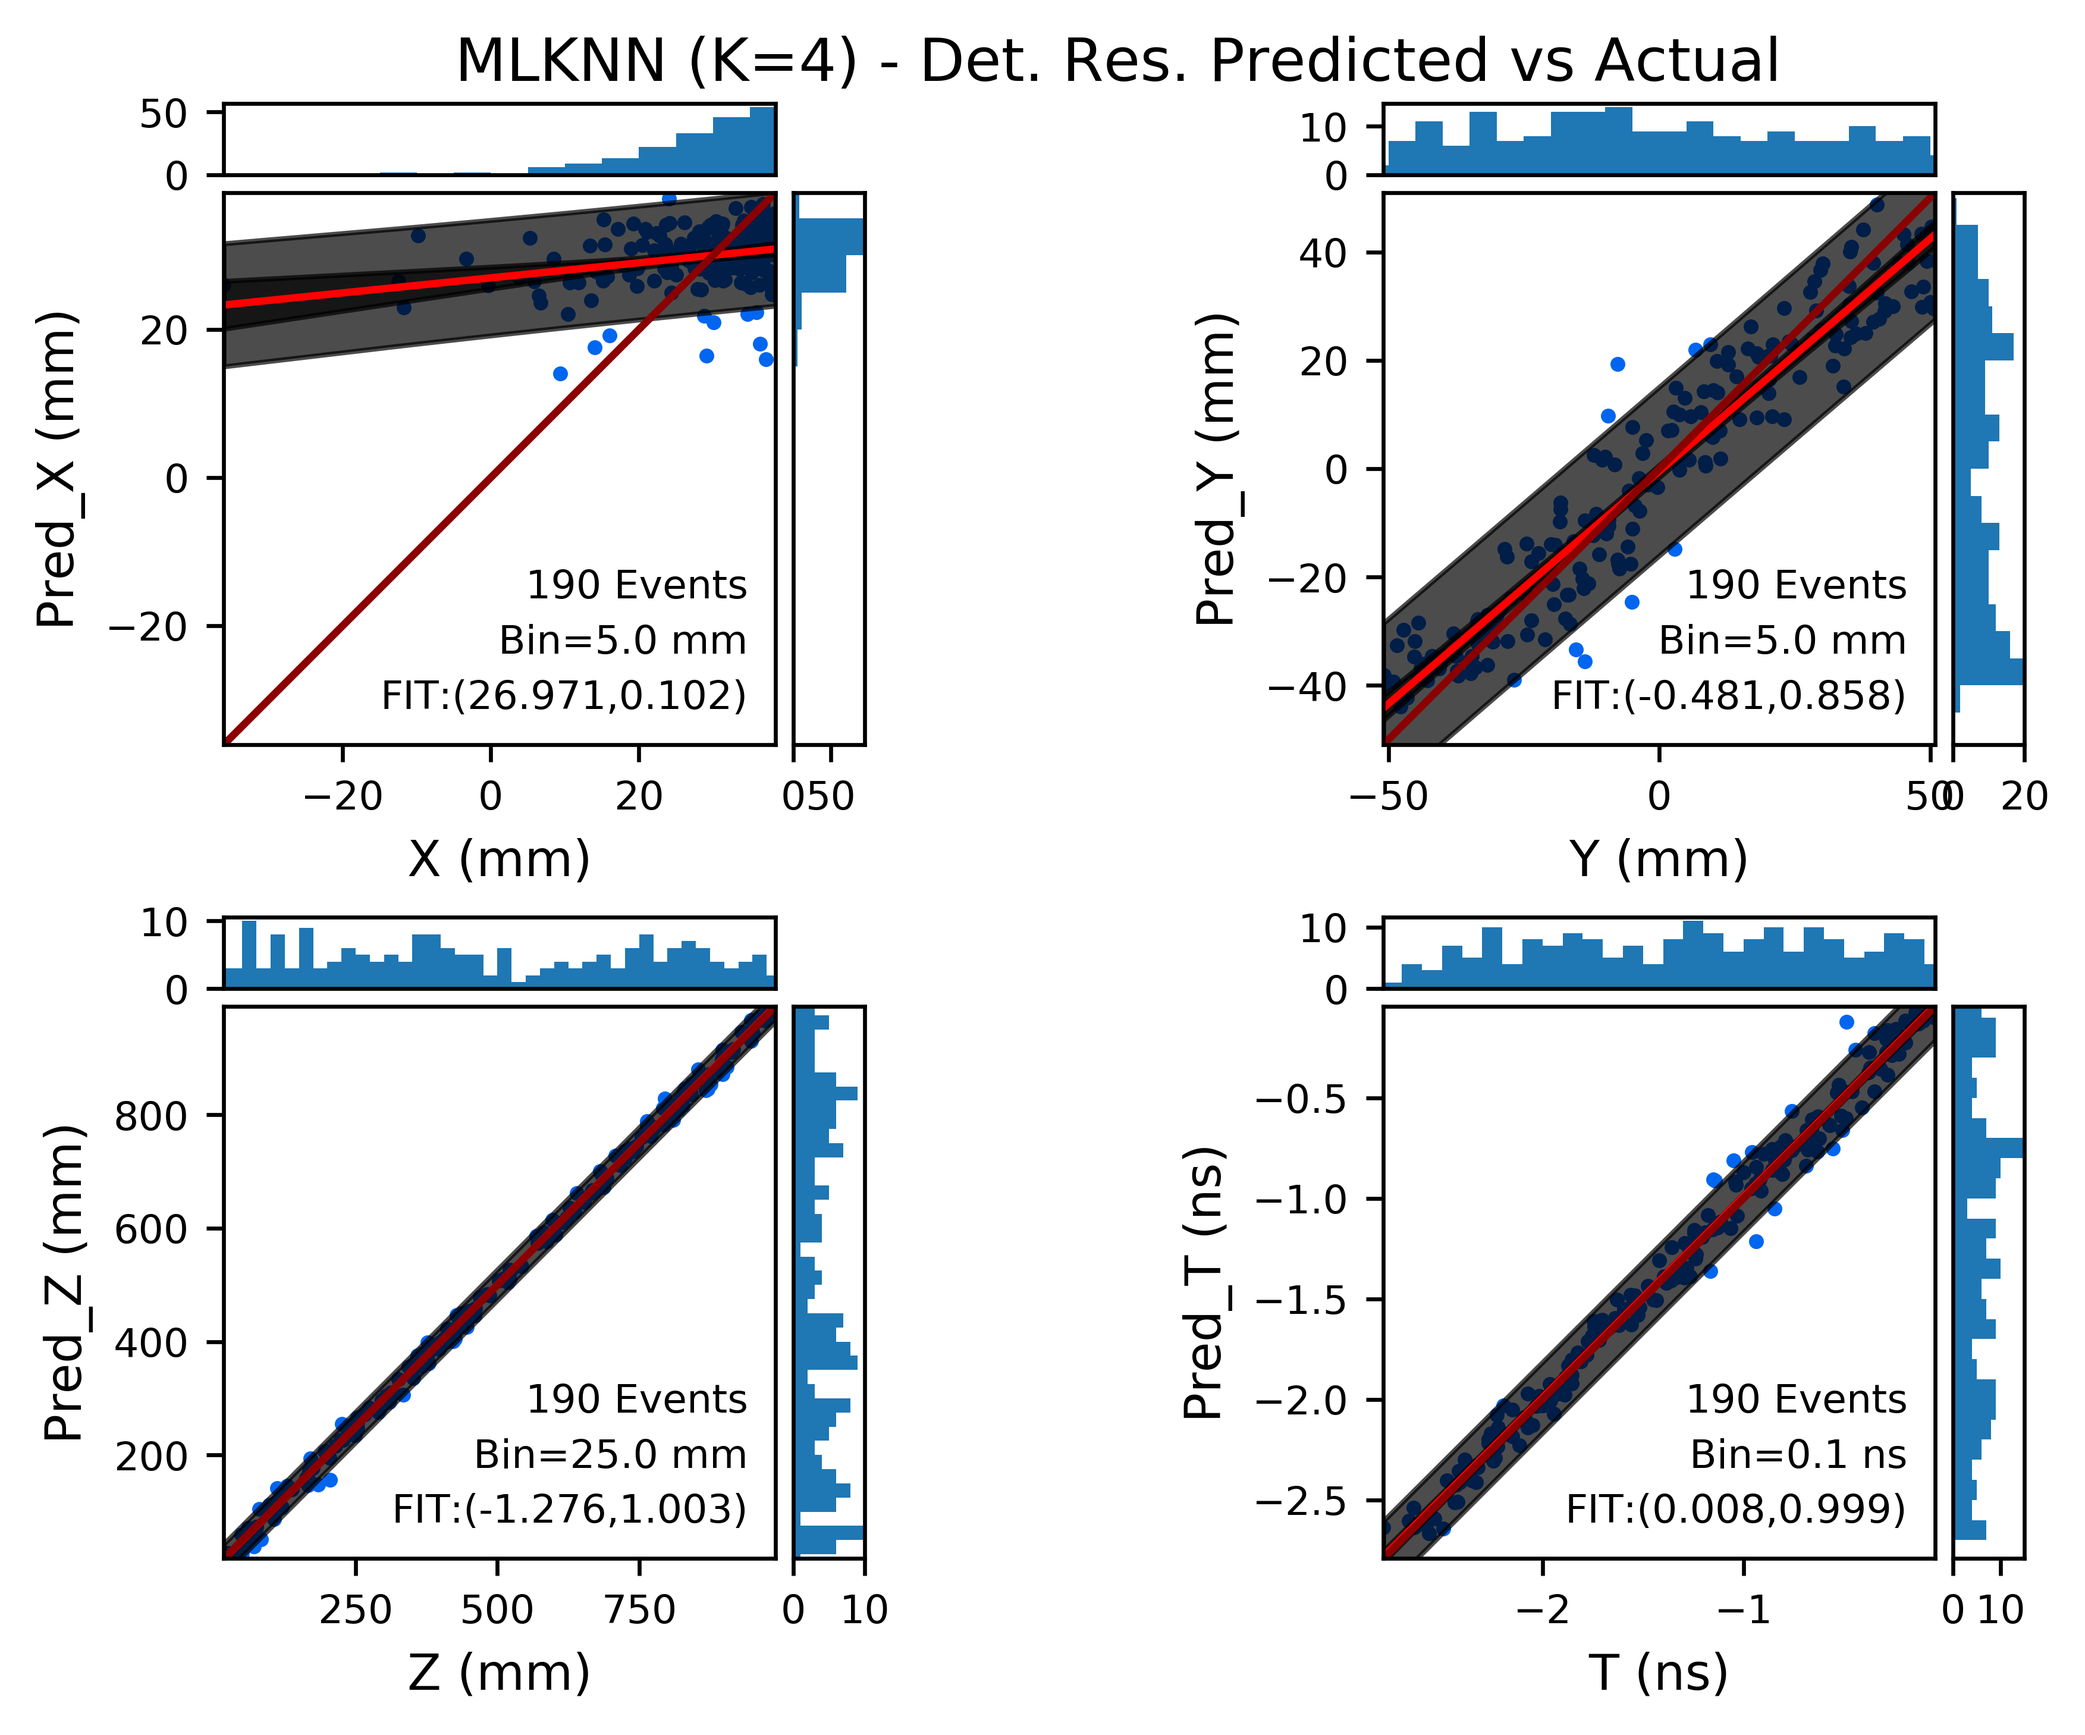
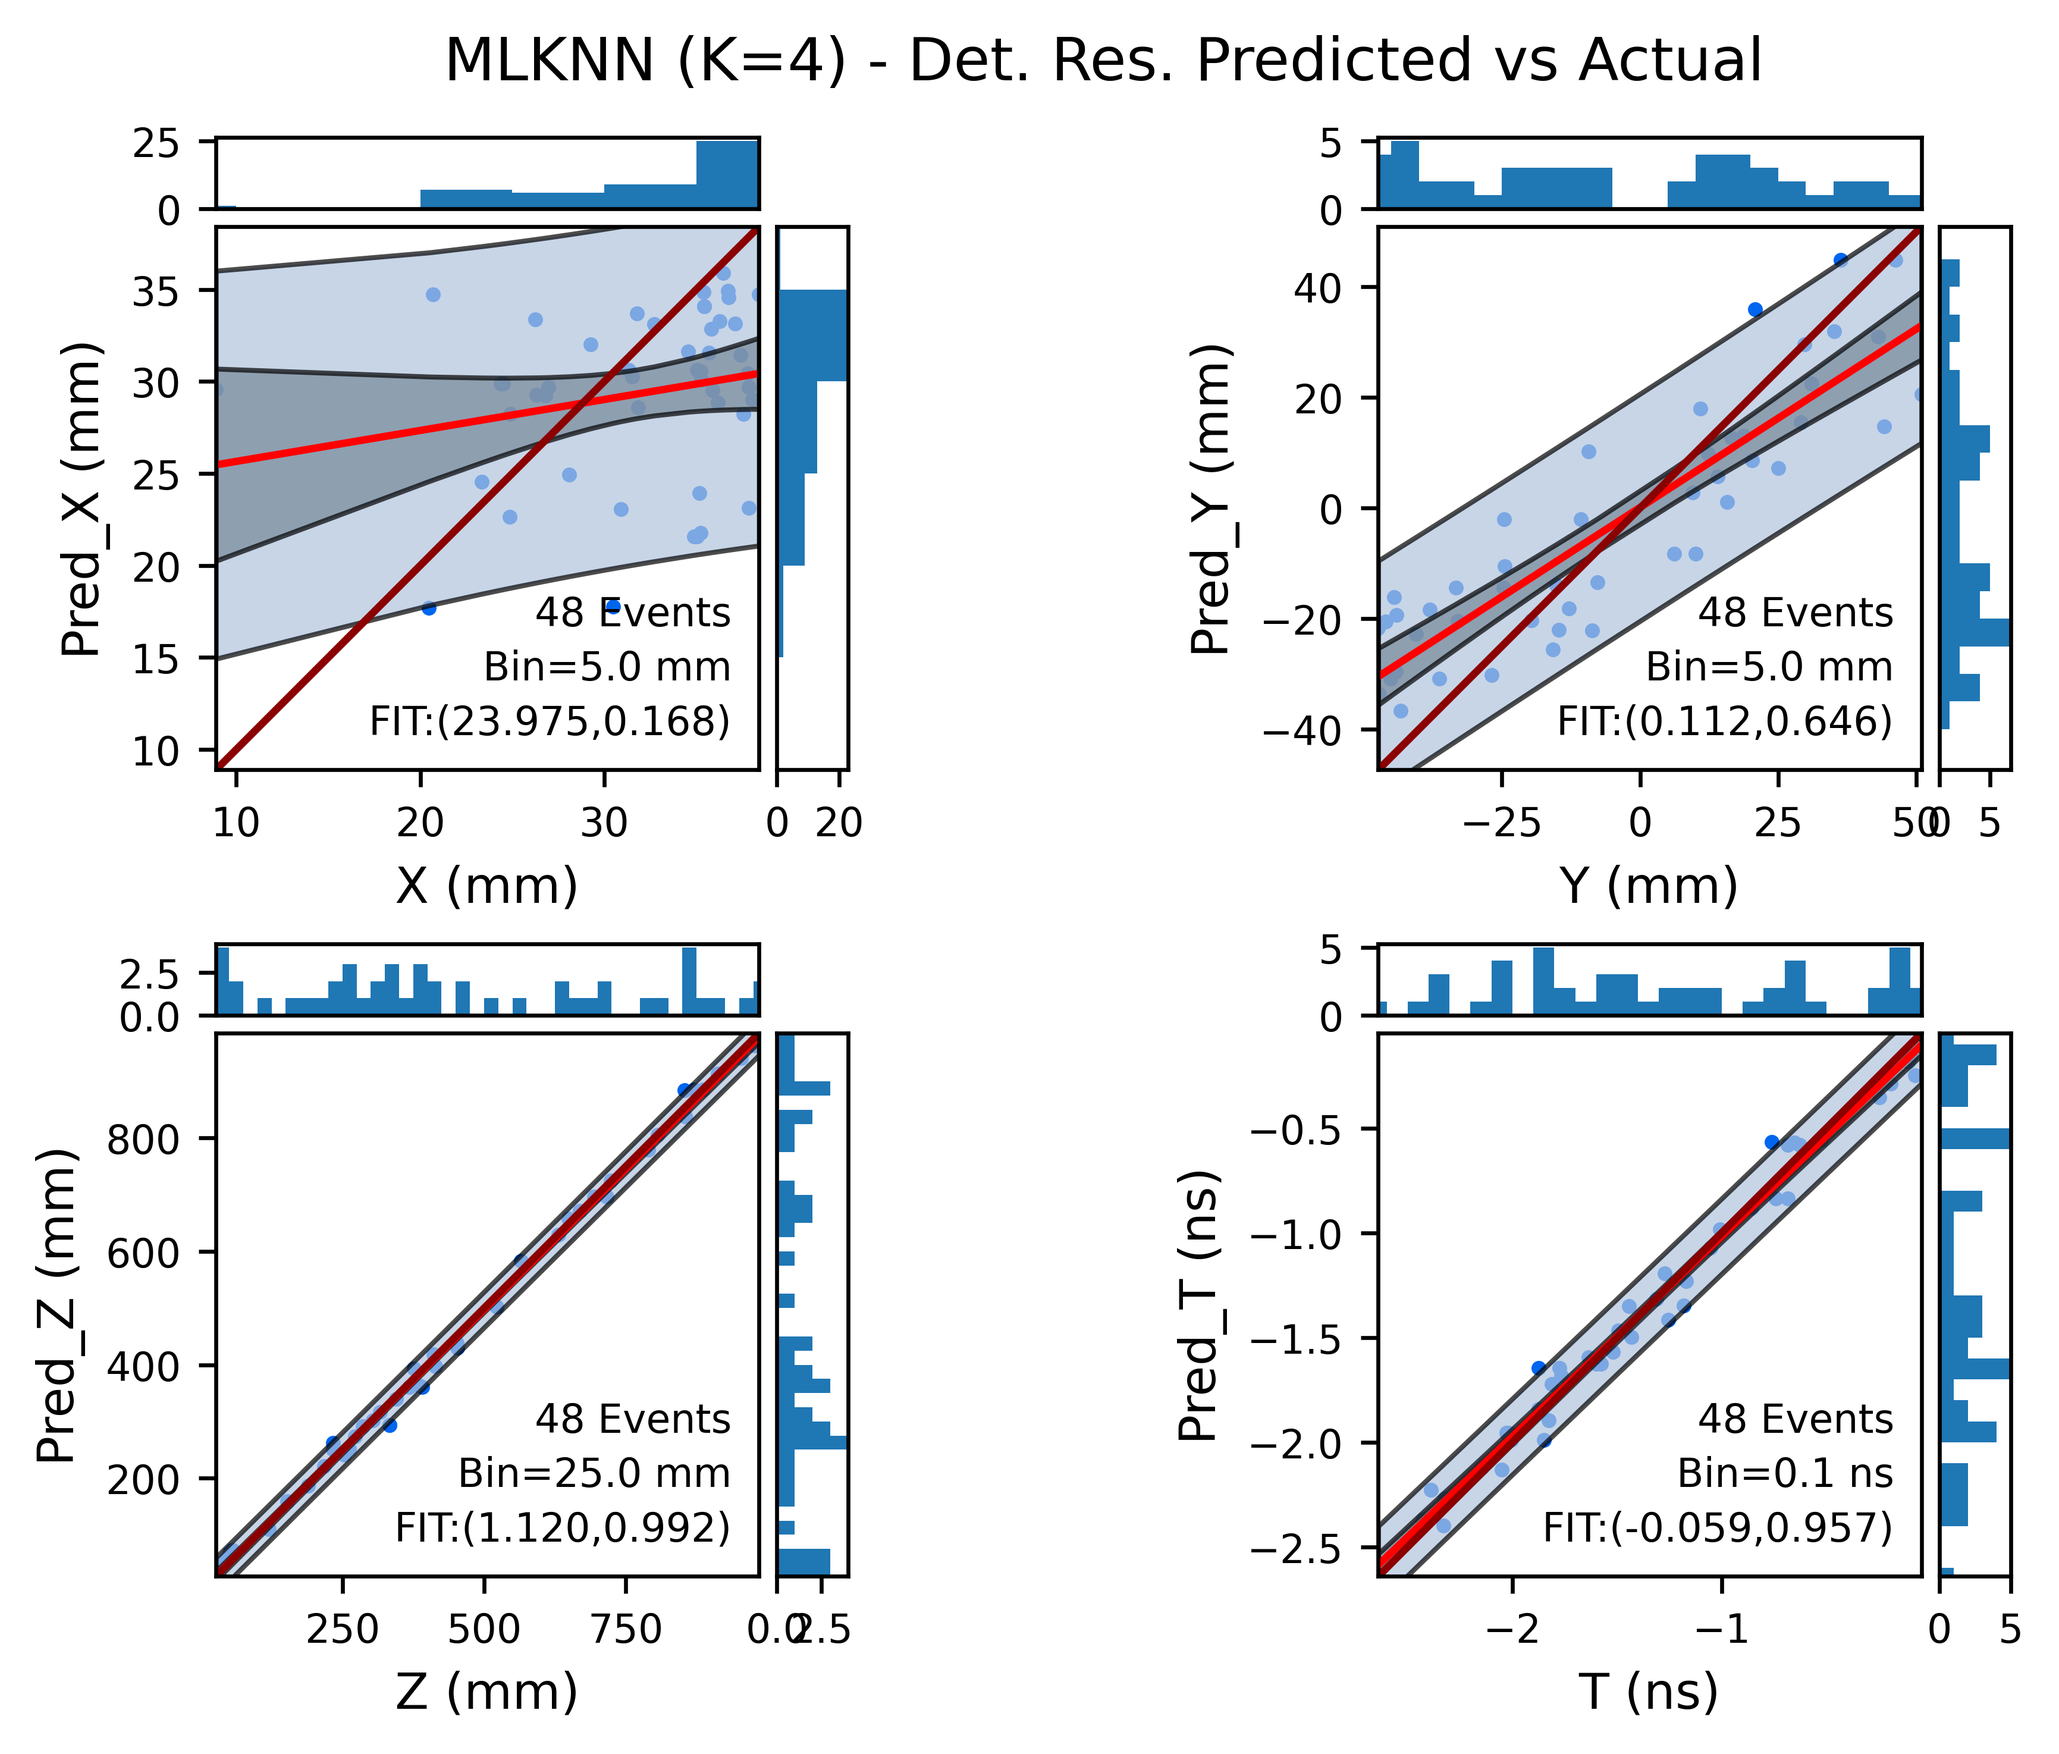
Disable ZT

diff --git a/tools/ML/ML_PCA.py b/tools/ML/ML_PCA.py
@@ -2,18 +2,24 @@
 
 #flatten vectors
 flatinput = torch.flatten(inputTensor,start_dim=1)
+
 #print(inputTensor.shape)
-#print(flatinput.shape)
+targetshape=flatinput.shape
 #print(flatinput[0])
 #standardize -------------------------------------------------------
+#Workaround for Z-values:
+if(len(flatinput)==4*2*photoLen):
+    d = int(2*photoLen)
+    flatinput[(2*d):(3*d)] = np.nan
+#Zero valuing
+# remove all nan/zero columns in Tensor
+flatinput = flatinput[:,torch.isfinite(flatinput[0])]
+flatlength = len(flatinput[0])
+#
 meaninput = torch.mean(flatinput,dim=0)
 #print(meaninput.shape)
 stdinput = torch.std(flatinput,dim=0)
 #print(stdinput.shape)
-#workaround for Z-values:
-d = int(len(meaninput)/4)
-meaninput[(2*d):(3*d)] = (meaninput[2*d] + meaninput[3*d])/2
-stdinput[(2*d):(3*d)] = meaninput[(2*d):(3*d)]
 #----
 if(pcaSTD):
     standardinput = (flatinput-meaninput)
@@ -24,7 +30,7 @@ cov = torch.tensor(np.cov(standardinput,y=None,rowvar=False),dtype=torch.float32
 #mahalanobis
 ts = torch.transpose(standardinput,0,1)
 mahalanobis = torch.diagonal(torch.sqrt(torch.chain_matmul(standardinput,torch.pinverse(cov),ts)))
-print(mahalanobis.shape)
+#print(mahalanobis.shape)
 #eigensystem
 eigenval, eigenvect = torch.eig(cov,eigenvectors=True)
 singular = torch.sqrt(eigenval[:,0])
@@ -36,13 +42,16 @@ pcainput = torch.matmul(standardinput,eigenvect)
 if(pcaMAHA):
     pcainput = torch.divide(pcainput,singular)
     
-print(standardinput.shape)
-print(eigenvect.shape)
+#print(standardinput.shape)
+#print(eigenvect.shape)
 pcacov = np.cov(pcainput,y=None,rowvar=False)
 
 #
 OLDinput = inputTensor
-inputTensor = torch.reshape(pcainput, inputTensor.shape)
+target = torch.zeros(targetshape)
+target[:,0:flatlength] = pcainput
+#print(target.shape)
+inputTensor = torch.reshape(target, inputTensor.shape)
 
 fig,ax =plt.subplots(nrows=1,ncols=3,figsize=(15,5),constrained_layout=True)
 cmap = "cool"
@@ -68,3 +77,4 @@ fig.colorbar(covplot,ax = ax[2])
 plt.suptitle("DetRes PCA")
 plt.savefig(str(ML_PATH)+"/Models/detRes_"+PATH_OPT+".png")
 plt.close()
+print("Loaded PCA")

diff --git a/analyze.py b/analyze.py
@@ -37,7 +37,7 @@ else:
 	MaxEventLimit = True
 #------------------------------------------------------------------------------------
 #MaxEventLimit = True #manual override
-MaxEvents = 12000#int(input("Number of Events:"))
+MaxEvents = 200#int(input("Number of Events:"))
 #--------------------------
 #Defining Flags:
 STRIPHIST = False
@@ -61,9 +61,9 @@ DRES_Train = True #Train or Test/VIS?
 warmstart=True # warmstart the CNN
 #---KNN
 KNN = True #using KNN OR CNN ? 
-MLOPT = ["PCA","DISABLE-ZT"] #options "PCA" "STD" "MAHA" (note MAHA,STD requires PCA)
-KVIS = "RUN" #options "RUNONE" "RUN" "OPTNUM" "ERR" "VIS" "False" #nearest neighbor output visualization?
-knn_neighbors = 4 #set value
+MLOPT = ["DISABLE-ZT"] #options "PCA" "STD" "MAHA" (note MAHA,STD requires PCA)
+KVIS = "RUNONE" #options "RUNONE" "RUN" "OPTNUM" "ERR" "VIS" "False" #nearest neighbor output visualization?
+knn_neighbors =  #set value
 #---------------
 POSRES = False
 RES_ADD = False #additional resolution plots

diff --git a/tools/ML/ML_detRes_KNN.py b/tools/ML/ML_detRes_KNN.py
@@ -20,17 +20,21 @@ inputTensor,expectedTensor = MLDRESpreprocess(photoLen)
 if("PCA" in MLOPT):
 	PATH_OPT=PATH_OPT+"PCA"
 	pcaSTD = False
+	pcaMAHA = False
 if("STD" in MLOPT):
 	PATH_OPT=PATH_OPT+"-STD"
 	pcaSTD = True
 if("MAHA" in MLOPT):
 	PATH_OPT=PATH_OPT+"-MAHA"
 	pcaMAHA = True
+if("DISABLE-ZT" in MLOPT):
+	PATH_OPT=PATH_OPT+"-DISABLE-ZT"
+	inputTensor[:,2:4,:]=np.nan
+	
 #---
 print(":OPTIONS- ",PATH_OPT)
 if("PCA" in MLOPT):
 	with open(ML_PATH+'ML_PCA.py') as f: exec(f.read()) # helper file # PATH and vis
-	print("Loaded PCA")
 #-------------------------------------------------------
 length = inputTensor.shape[0]
 frac = 0.75
